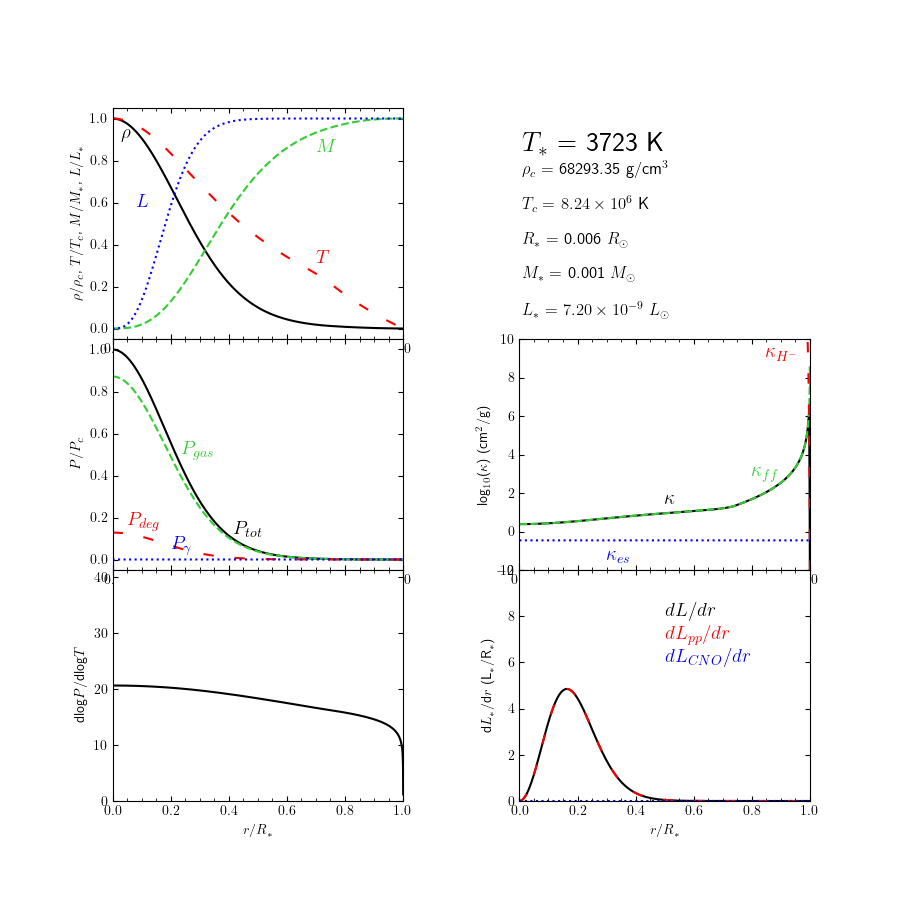
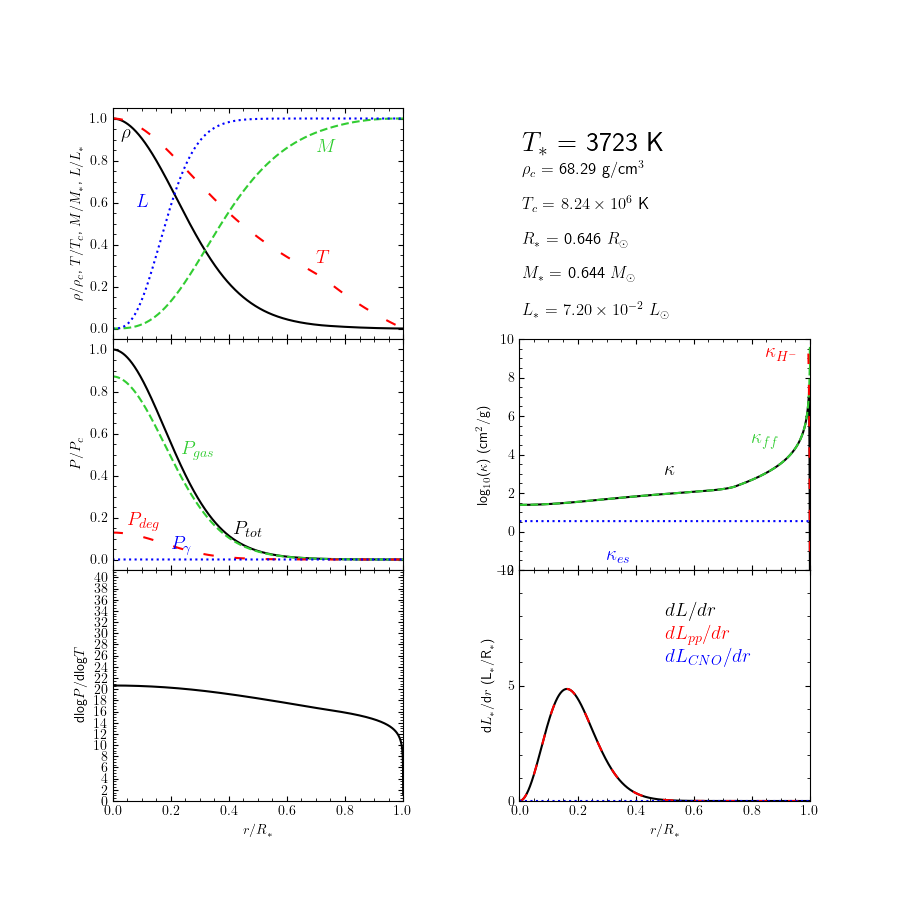
close enough i guess

diff --git a/generate_star.py b/generate_star.py
@@ -55,9 +55,9 @@ def bisection(rhoc_min, rhoc_max, r_initial, r_final, y, steps):
     tau_mid = solutions_mid[5]
     tau_max = solutions_max[5]
 
-    i_min = np.argmin(tau_min[-1] - tau_min[:-2] - 2/3)
-    i_mid = np.argmin(tau_mid[-1] - tau_mid[:-2] - 2/3)
-    i_max = np.argmin(tau_max[-1] - tau_max[:-2] - 2/3)
+    i_min = np.argmin(tau_min[-1] - tau_min - 2/3)
+    i_mid = np.argmin(tau_mid[-1] - tau_mid - 2/3)
+    i_max = np.argmin(tau_max[-1] - tau_max - 2/3)
 
     R_Star_min = solutions_min[0][i_min]
     R_Star_mid = solutions_mid[0][i_mid]
@@ -79,16 +79,18 @@ def bisection(rhoc_min, rhoc_max, r_initial, r_final, y, steps):
     # Note: if 'f' is > 0 then our L(R_star) is greater than the theoretical
 
     if fmin*fmax > 0:
-        print ("Change Initial conditions")
+        print ("Change initial conditions, no rho_c possible.")
         quit()
     else:
+        #initial condition for rhoc
         current = rhoc_mid
-        previous = 0
-        diff = 2
+        #arbitrary initializing
+        previous, diff = 0, 2
 
-        while abs(diff)>1:
-            if fmin*fmid<0: # Either fmin or fmid overshot while the other undershot
+        while abs(diff) > 1:
+            if fmin*fmid < 0: # Either fmin or fmid overshot while the other undershot
                 rhoc_max = rhoc_mid
+
                 rhoc_mid = (rhoc_min+rhoc_max)/2
 
                 # Now we re-solve ODEs using the new rhoc_mid
@@ -97,16 +99,16 @@ def bisection(rhoc_min, rhoc_max, r_initial, r_final, y, steps):
 
                 soln = solveODEs(r_initial, r_final, y_mid, steps)
                 tau = soln[5]
-                i = np.argmin(tau[-1] - tau[:-2] - 2/3)
+                i = np.argmin(tau[-1] - tau - 2/3)
 
 
                 R_Star_mid = soln[0][i]
-                L_Star_mid = soln[4][i]
                 T_Star_mid = soln[2][i]
+                L_Star_mid = soln[4][i]
 
                 fmid = tools.luminosity_check(R_Star_mid, L_Star_mid, T_Star_mid)
 
-            elif fmid*fmax <0: # Either fmid or fmax overshot while the other undershot
+            elif fmid*fmax < 0: # Either fmid or fmax overshot while the other undershot
                 rhoc_min = rhoc_mid
                 rhoc_mid = (rhoc_min+rhoc_max)/2
 
@@ -116,20 +118,23 @@ def bisection(rhoc_min, rhoc_max, r_initial, r_final, y, steps):
 
                 soln = solveODEs(r_initial, r_final, y_mid, steps)
                 tau = soln[5]
-                i = np.argmin(tau[-1] - tau[:-2] - 2/3)
+                i = np.argmin(tau[-1] - tau - 2/3)
 
 
                 R_Star_mid = soln[0][i]
-                L_Star_mid = soln[4][i]
                 T_Star_mid = soln[2][i]
+                L_Star_mid = soln[4][i]
 
                 fmid = tools.luminosity_check(R_Star_mid, L_Star_mid, T_Star_mid)
+
+            elif fmid == 0:
+                return rhoc_mid
 
             previous = current
             current = rhoc_mid
             diff = current - previous
 
-    return (rhoc_mid)
+    return rhoc_mid
 
 ###############################################################################
 ######################### Setting the Initial conditions ######################
@@ -145,7 +150,8 @@ y = np.array([0, Tc, 0, 0, 0])
 
 rhoc_min = 300 # min value for rho_c in g/cm^3
 rhoc_max = 500000 # max value for rho_c in g/cm^3
-rho_c = bisection(rhoc_min, rhoc_max, r_initial, r_final, y, steps) # new rho_c that satisfies the boundary consitions for luminosity
+#our solution to f(rho_c)
+rho_c = bisection(rhoc_min, rhoc_max, r_initial, r_final, y, steps)
 
 # re-defining the previos 'y' array to now contain the newly determine rho_c value
 y_new =  np.array([rho_c, Tc, 0, 0, 0])
@@ -161,7 +167,7 @@ M_values = solutions_final[3]
 L_values = solutions_final[4]
 tau_values = solutions_final[5]
 
-i = np.argmin(tau_values[-1] - tau_values[:-2] - 2/3)
+i = np.argmin(tau_values[-1] - tau_values - 2/3)
 
 
 # Declaring R_Star, Rho_Star, T_Star, M_Star, and L_Star
@@ -211,7 +217,7 @@ df = pd.DataFrame(data=zip(r_values/R_Star, rho_values, L_values, M_values, T_va
                   columns=['r/R', 'rho(r)', 'L(r)', 'M(r)', 'T(r)', 'Pgas', 'Pdeg', 'Ppho', 'P', 'dlogP/dlogT',
                            'kappa', 'kappaff', 'kappaHm', 'kappaes', 'dL/dr', 'dLpp/dr', 'dLcno/dr'])
 
-df.to_csv(os.path.join(s.data_folder, 'star_1.csv'), index=False)
+df.to_csv(rf"{os.path.join(s.data_folder, 'star_1.csv')}", index=False)
 
 quit()
 

diff --git a/star_info.py b/star_info.py
@@ -147,7 +147,7 @@ def plot_star(data, info = None, savepath=""):
         ax.xaxis.set_major_locator(tk.MultipleLocator(0.2))
         ax.xaxis.set_minor_locator(tk.MultipleLocator(0.05))
 
-        """
+        
         if i in [0,1]:
             ax.yaxis.set_major_locator(tk.MultipleLocator(0.2))
         elif i in [2, 3]:
@@ -159,7 +159,7 @@ def plot_star(data, info = None, savepath=""):
             ax.tick_params(labelbottom = False)
 
         ax.yaxis.set_minor_locator(tk.AutoMinorLocator())
-        """
+
 
     if savepath != "":
         plt.savefig(savepath)
@@ -181,15 +181,39 @@ if __name__ == '__main__':
     """
 
     summary = os.path.join(s.data_folder, 'generated_stars.csv')
-    info = pd.read_csv(summary, header=0).iloc[0, :]
+    info = pd.read_csv(summary, header=0).iloc[-1, :]
 
-    #info['rhoc'] = info['rhoc']/1000
-    #info['R'] = info['R']*100
-    #info['M'] = info['M']*1000
-    #info['L'] = info['L'] / 1e-7
+    info['rhoc'] = info['rhoc']/1000
+    info['R'] = info['R']*100
+    info['M'] = info['M']*1000
+    info['L'] = info['L'] / 1e-7
 
     star = os.path.join(s.data_folder, 'star_1.csv')
     data = pd.read_csv(star, header=0)
+
+    #to g/cm^3
+    data['rho(r)'] = data['rho(r)']/1000
+    #to g
+    data['M(r)'] = data['M(r)']*1000
+    #to erg/s
+    data['L(r)'] = data['L(r)'] / 1e-7
+
+    #to erg/cm^3
+    data['P'] = data['P'] * 0.1
+    data['Pdeg'] = data['Pdeg'] * 0.1
+    data['Pgas'] = data['Pgas'] * 0.1
+    data['Ppho'] = data['Ppho'] * 0.1
+
+    #to erg/s/cm
+    data['dL/dr'] = data['dL/dr'] / 1e-7 / 100
+    data['dLpp/dr'] = data['dLpp/dr'] / 1e-7 / 100
+    data['dLcno/dr'] = data['dLcno/dr'] / 1e-7 / 100
+
+    #to cm^2/g
+    data['kappa'] = data['kappa'] * 10
+    data['kappaff'] = data['kappaff'] * 10
+    data['kappaes'] = data['kappaes'] * 10
+    data['kappaHm'] = data['kappaHm'] * 10
 
     savepath = os.path.join(s.plots_folder, 'star_1.png')
     plot_star(data, info=info, savepath=savepath)
